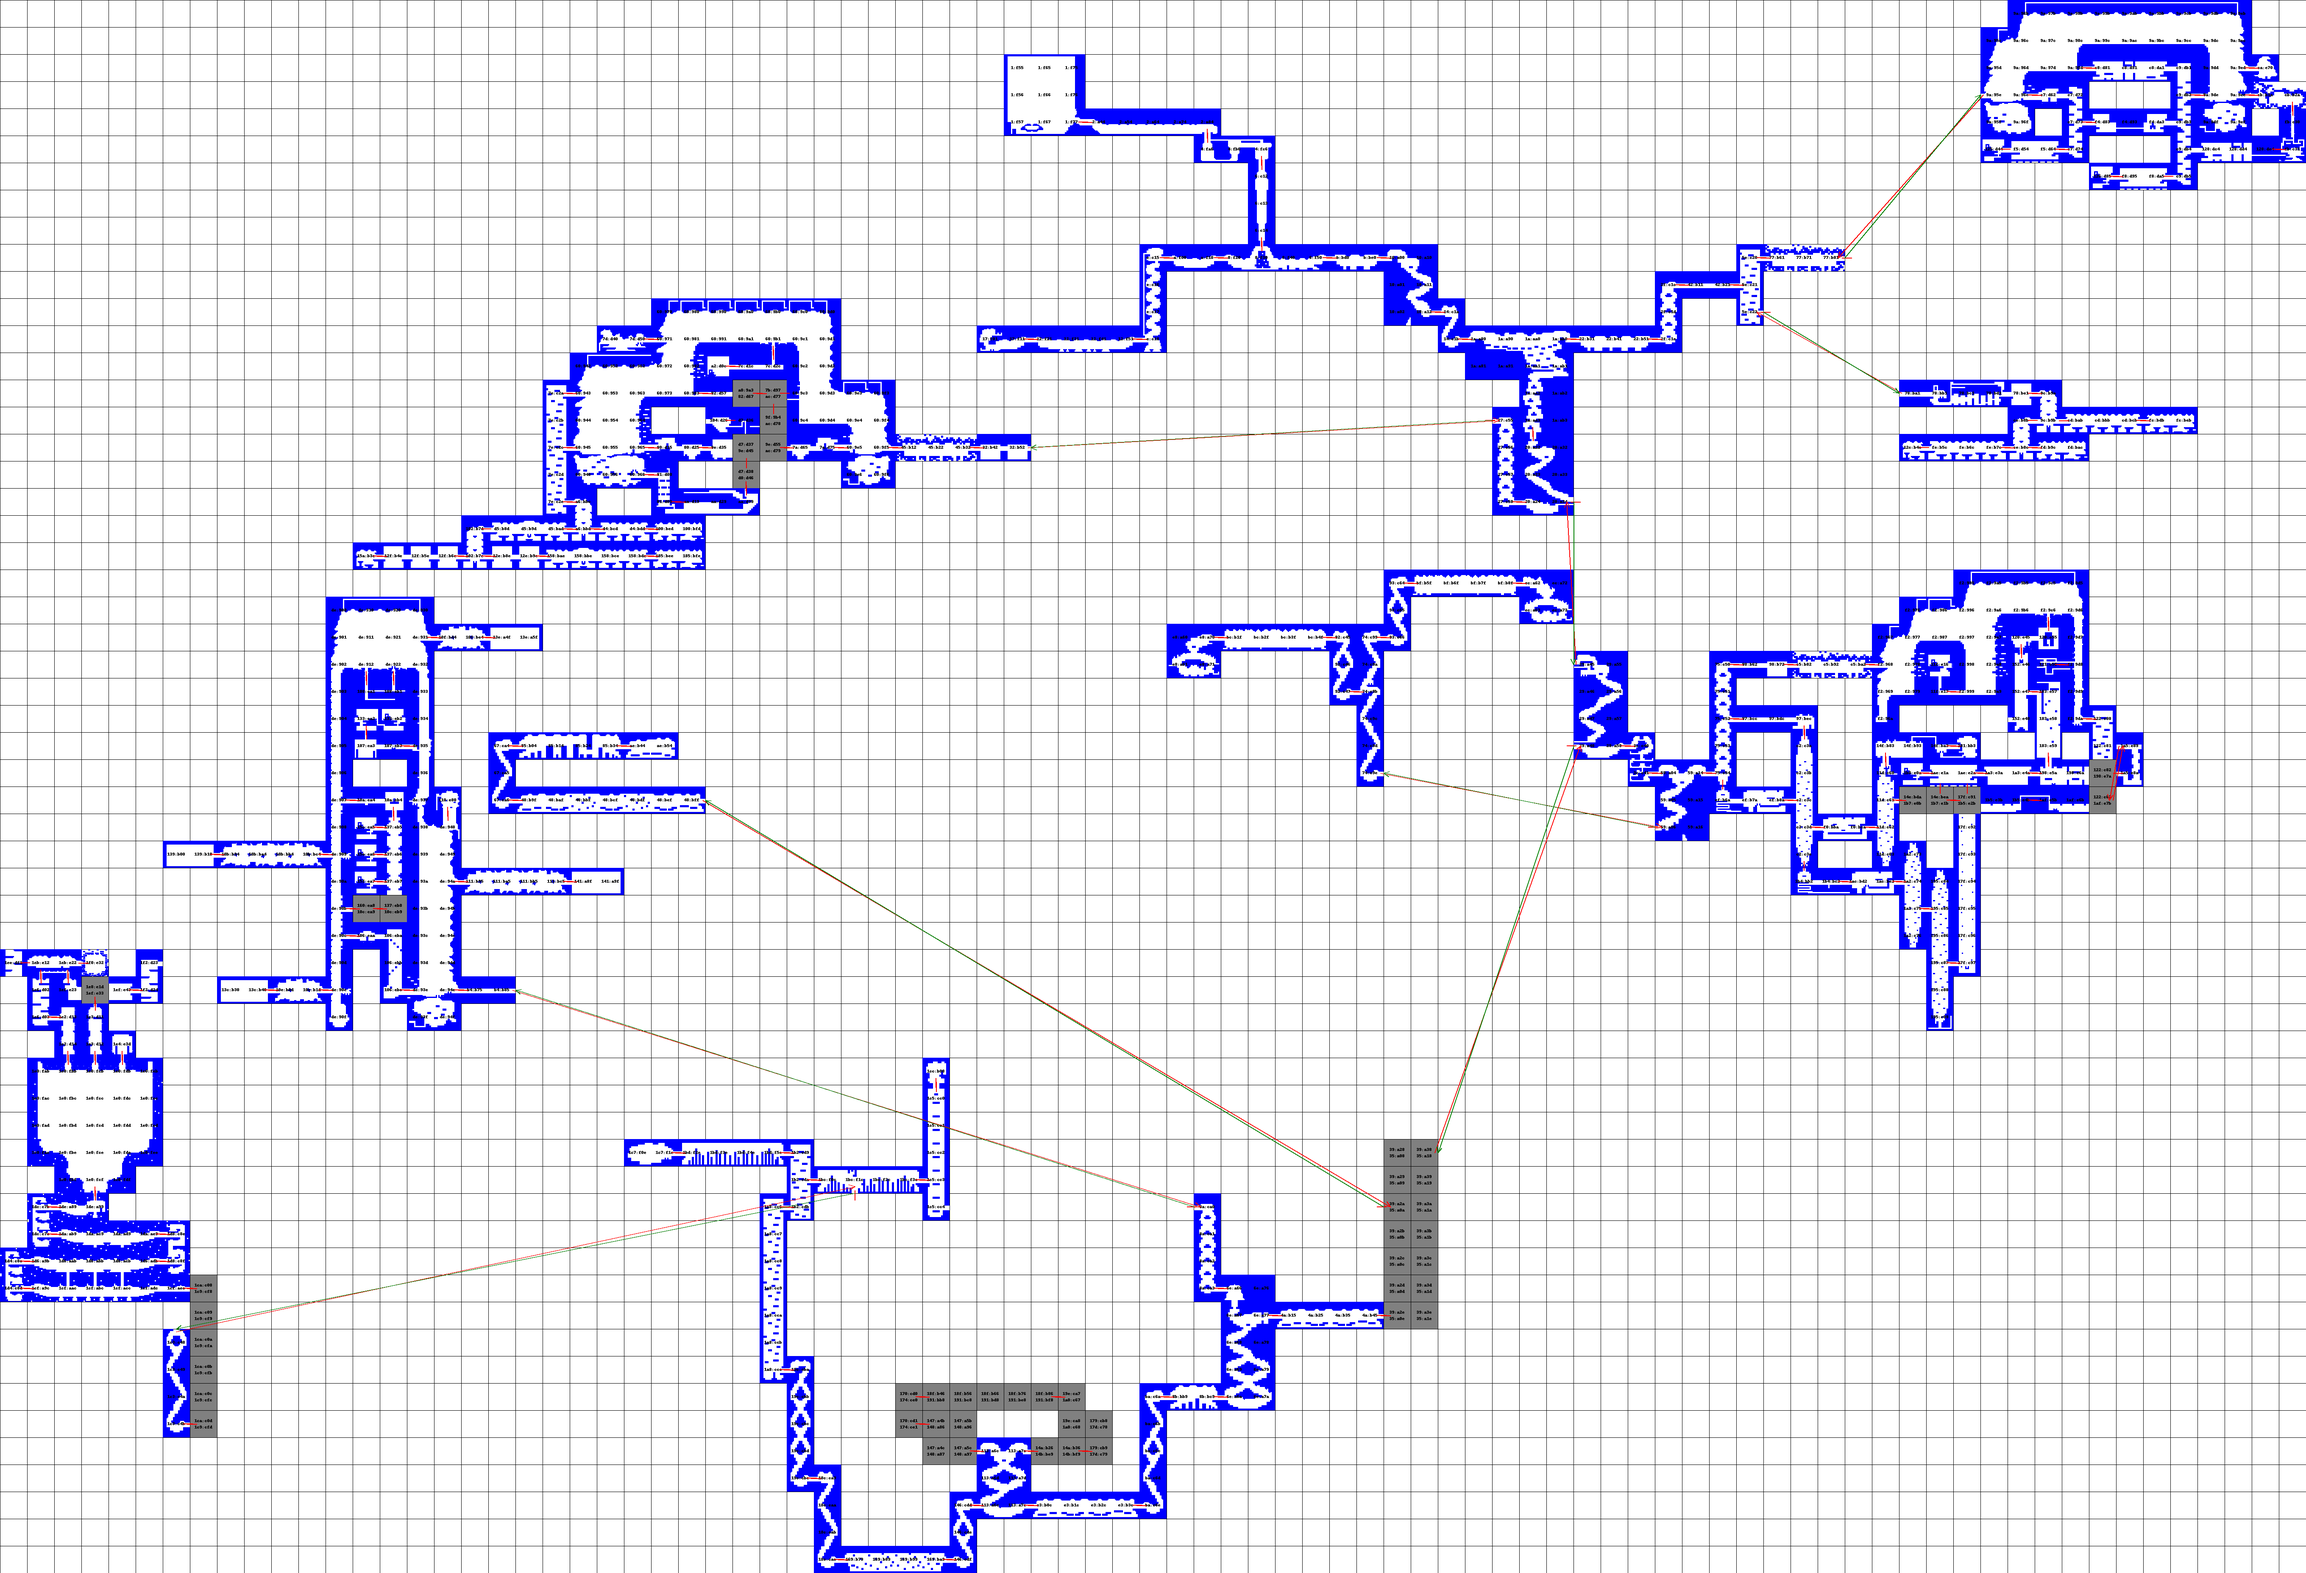
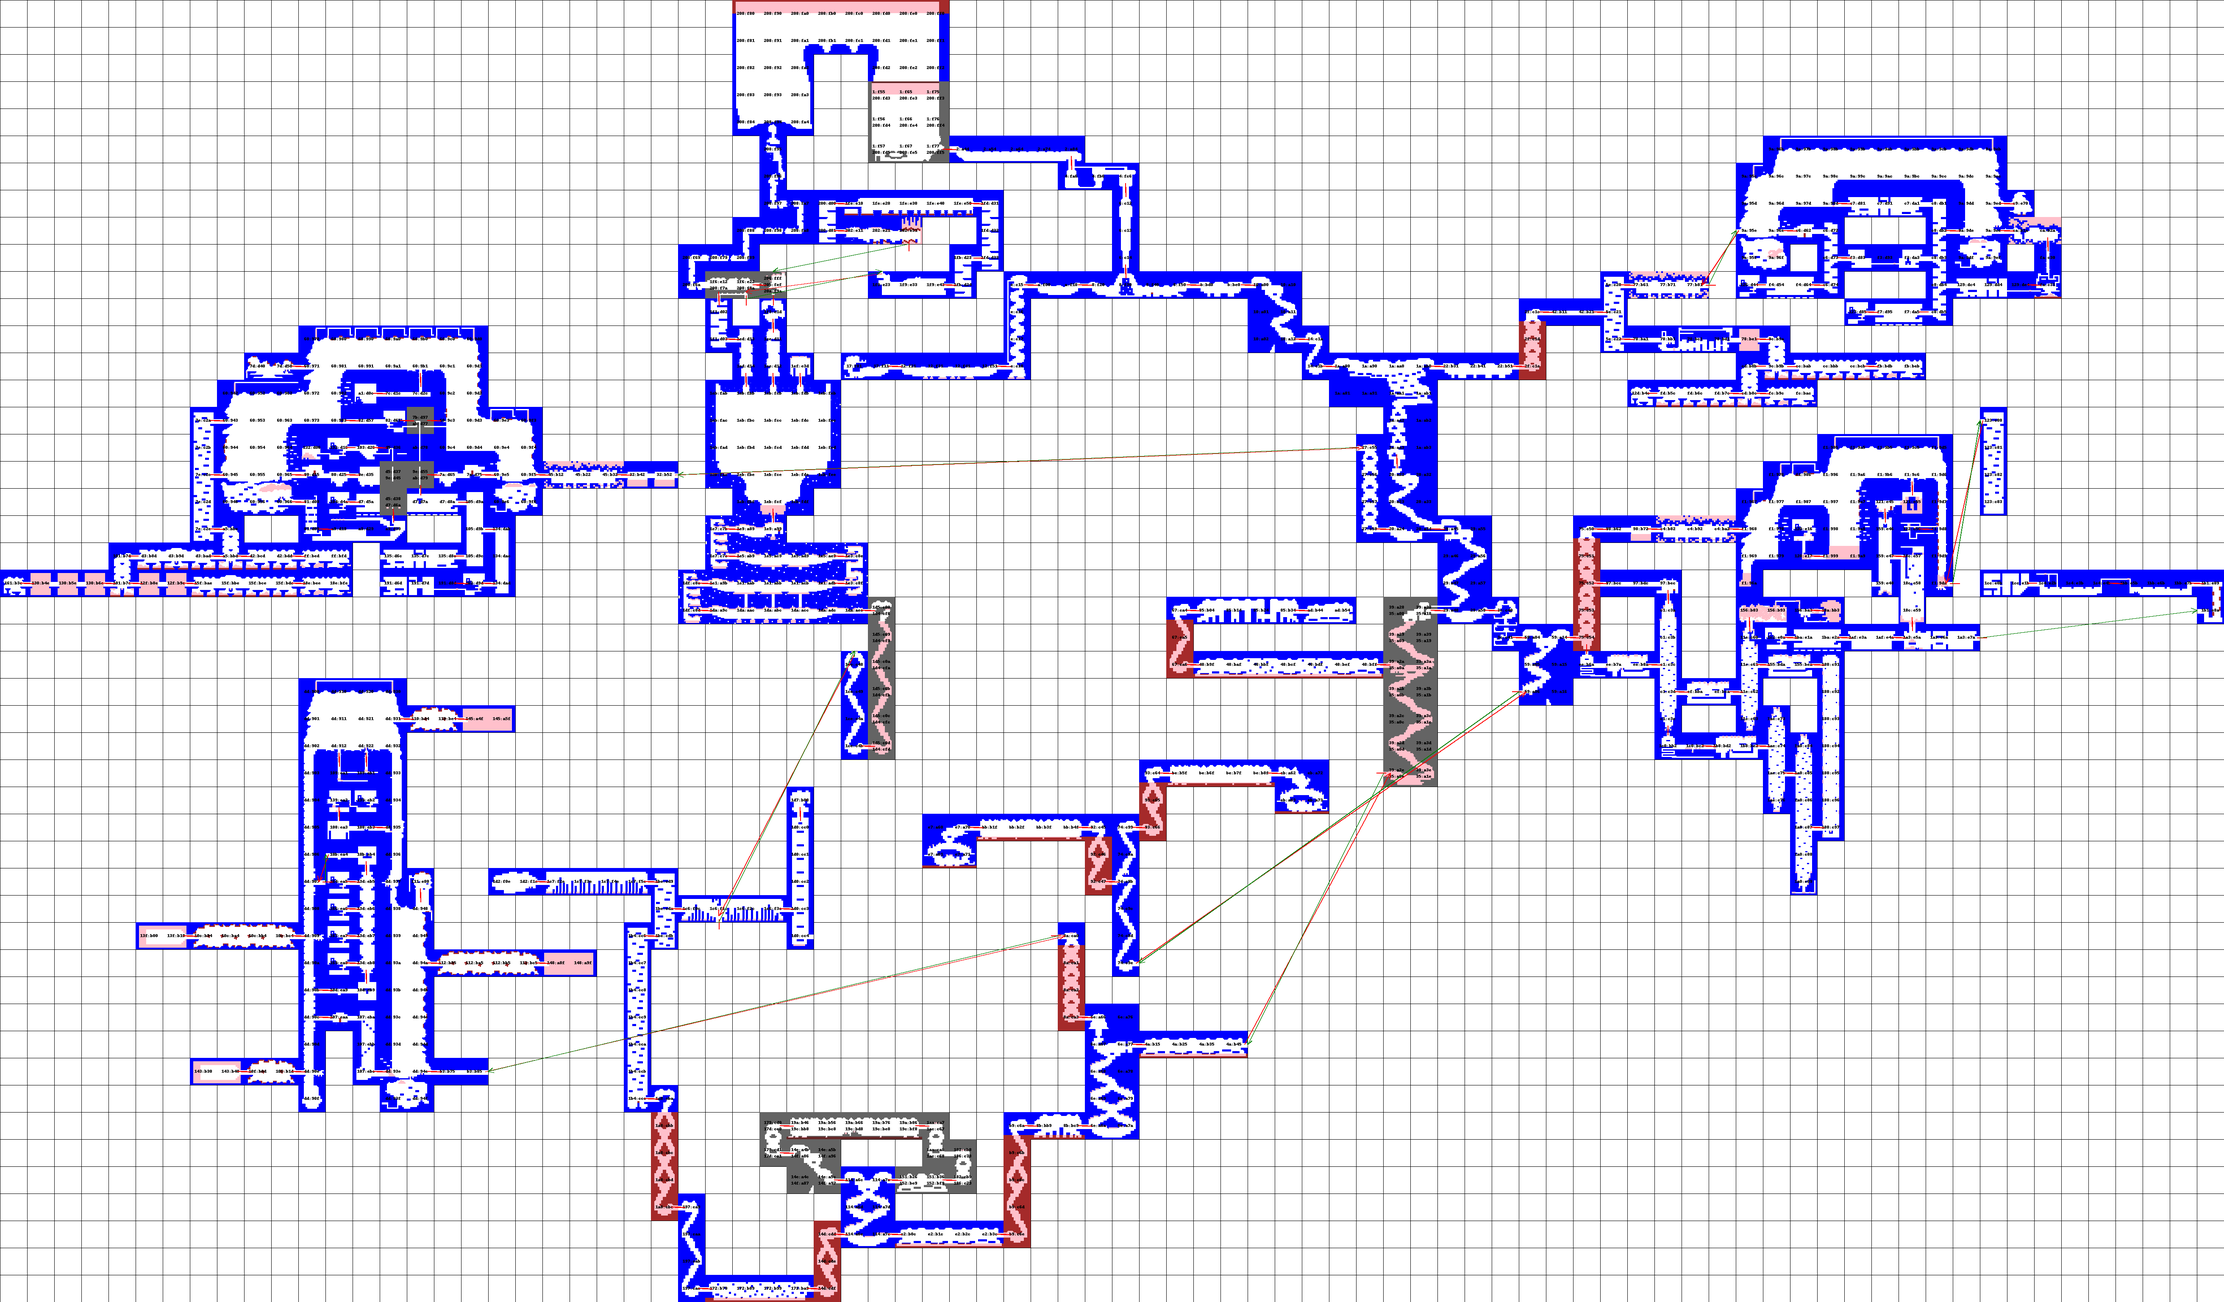
good stuff

diff --git a/extract.py b/extract.py
@@ -11,32 +11,43 @@ BIT_WEST = 2
 BIT_NORTH = 4
 BIT_SOUTH = 8
 
+NO_REPLICATE = -1
+
 def romaddr(bank, ramaddr):
     return 0x4000 * bank + (ramaddr % 0x4000)
 
 # for pushing different regions apart
 special_transitions = {
-    0x80: (-17, 1), # area 3?
-    0x1b3: (0, 6), # caves
+    (0xc55, BIT_WEST): (-25, 1), # area 3?
     
     # area 2?
-    0x5A: (5, -6),
-    0x6F: (5, 3),
+    (0xB81, BIT_EAST): (1, -2),
+    
+    # area 3?
+    #(0xD39, BIT_NORTH): (9, 4),
+    
+    # area 4?
+    (0x9DA, BIT_EAST): (1, -6),
+    (0xE7A, BIT_EAST): (8, -1),
     
     # cave fork
-    0x1A0: (-5, 15),
-    0x33: (-10, -2),
+    #0x1A0: (-5, 5),
+    (0xA06, BIT_WEST): (-14, 10),
     
     # double acid cave
-    0x189: (-25, -15),
-    0x3B: (-25, -15),
+    (0xA2E, BIT_WEST): (-5, 10),
+    (0xA0E, BIT_WEST): (-5, 10),
     
     # "A"
-    0xA6: (-25, -8),
+    (0xCA0, BIT_WEST): (-21, 5),
+    (0x907, BIT_EAST): (0, -1),
     
     # ~"B"
-    0x7A: (-25, 5),
-    #0xD4: (-15, 0),
+    (0xF1C, BIT_SOUTH): (5, -10),
+    
+    # Final area
+    (0xE22, BIT_SOUTH): (5, -1),
+    (0xE31, BIT_SOUTH): (-5, 1),
 }
 
 # no warp, but we count it anyway
@@ -49,6 +60,13 @@ exceptional_null_transitions = {
     0xD54,
     0xDB5,
     0xB4E,
+    0xE2B,
+    0xD26,
+    0xD79,
+    0xD8A,
+    0xD9B,
+    0xD9C,
+    0xD23,
 }
 
 suppress_transition = {
@@ -83,17 +101,38 @@ suppress_transition = {
     0xC8E: BIT_NORTH,
     0xC8F: {BIT_EAST, BIT_SOUTH},
     
-    0xD36: {BIT_EAST},
+    0xD36: {BIT_EAST, NO_REPLICATE},
+    0xD45: {BIT_NORTH, BIT_SOUTH},
     0xD54: {BIT_NORTH, BIT_SOUTH},
     0xD64: {BIT_NORTH, BIT_SOUTH},
+    0xD97: {BIT_WEST, BIT_SOUTH, NO_REPLICATE},
+    0xD77: {BIT_EAST, NO_REPLICATE},
     
-    0xEB8: {BIT_SOUTH, BIT_NORTH},
-    0xEB9: {BIT_SOUTH, BIT_NORTH},
+    0xE1A: {BIT_SOUTH, BIT_NORTH},
+    0xE2A: {BIT_SOUTH, BIT_NORTH},
+    0xE31: {BIT_NORTH, BIT_EAST},
+    
+    # larva room
+    0xE12: {BIT_WEST, NO_REPLICATE},
+    0xE22: {BIT_EAST, NO_REPLICATE},
+    0xF8A: {BIT_SOUTH, NO_REPLICATE},
+    0xF7A: {BIT_SOUTH, NO_REPLICATE},
+    
+    # queen absent
+    0xFFF: {BIT_EAST, BIT_NORTH, BIT_WEST, NO_REPLICATE},
+    
+    # queen fight
+    0xFEF: {BIT_EAST, BIT_NORTH, NO_REPLICATE},
+    
+    # queen endgame
+    0xF9A: {BIT_EAST, BIT_NORTH, BIT_SOUTH, NO_REPLICATE},
 }
 
 # bank,x,y versions of the above
 for t in list(exceptional_null_transitions):
     exceptional_null_transitions.add((t >> 8, (t >> 4) & 0xF, t & 0xF))
+for (t, bit), v in copy.copy(special_transitions).items():
+    special_transitions[((t >> 8, (t >> 4) & 0xF, t & 0xF), bit)] = v
 for t, bit in copy.copy(suppress_transition).items():
     if type(bit) == int:
         bit = {bit}
@@ -255,7 +294,7 @@ class Transition:
                 op.x = yx & 0x0F
                 op.y = yx >> 4
             elif opcode == 0x50:
-                op.type = "queen-escape"
+                op.type = "queen-retreat"
             elif opcode == 0x60:
                 op.type = "damage"
                 op.acid = read_u8()
@@ -269,6 +308,8 @@ class Transition:
                 op.camera_x = read_u16()
                 op.samus_y = read_u16()
                 op.samus_x = read_u16()
+                op.x = op.samus_x >> 8
+                op.y = op.samus_y >> 8
             elif opcode == 0x90:
                 op.type = "if-metroid"
                 op.threshold = read_u8()
@@ -308,6 +349,9 @@ def get_transition_locations_styles(idx, exit_bit, style, warp):
     dx = 0
     dy = 0
     
+    is_queen_retreat = False
+    is_queen_exit = False
+    
     if exit_bit:
         if warp in suppress_transition and exit_bit in suppress_transition[warp]:
             return []
@@ -318,6 +362,12 @@ def get_transition_locations_styles(idx, exit_bit, style, warp):
             out += get_transition_locations_styles(op.transition, exit_bit, style, (warp[0], (warp[1] - dx + 16) % 16, (warp[2] - dy + 16) % 16))
         elif op.type == "warp":
             warp = (op.bank, (op.x + dx + 16) % 16, (op.y + dy + 16) % 16)
+        elif op.type == "queen-enter":
+            warp = (op.bank, op.x, op.y)
+        elif op.type == "queen-retreat":
+            is_queen_retreat = True
+        elif op.type == "queen-exit":
+            is_queen_exit = True
         elif op.type == "bg":
             style[STYLE_IDX_BGROM] = op.src
         elif op.type == "spr":
@@ -330,7 +380,12 @@ def get_transition_locations_styles(idx, exit_bit, style, warp):
             style[STYLE_IDX_MTT] = op.value
     
     if warp:
-        out.append((warp, style))
+        if is_queen_retreat and exit_bit != BIT_SOUTH:
+            pass
+        elif is_queen_exit and exit_bit != BIT_WEST:
+            pass
+        else:
+            out.append((warp, style))
     else:
         print(f"Note: missing warp for transition {idx:3x}")
         
@@ -450,6 +505,7 @@ class Cell:
         samus_threshold, projectile_threshold, enemy_threshold = solthresh
         
         self.collision = [[0 for _ in range(CELL_TILE_SIZE)] for _ in range(CELL_TILE_SIZE)]
+        self.colflags = [[0 for _ in range(CELL_TILE_SIZE)] for _ in range(CELL_TILE_SIZE)]
         
         for y in range(0, CELL_MT_SIZE):
             for x in range(0, CELL_MT_SIZE):
@@ -477,6 +533,8 @@ class Cell:
                             self.collision[y*2 + yi][x*2 + xi] = 0
                         else:
                             self.collision[y*2 + yi][x*2 + xi] = 1
+                            
+                        self.colflags[y*2 + yi][x*2 + xi] |= colt
         
 class Room:
     def __init__(self, idx, bank, style):
@@ -531,7 +589,8 @@ def infer_suppressions():
                     idx = 16*y + x
                     tiles_addr = romaddr(bank, peek_u16(bank, 2*idx))
                     if (bank, x, y) in suppress_transition:
-                        suppress_transition[tiles_addr] = suppress_transition[(bank, x, y)]
+                        if NO_REPLICATE not in suppress_transition[(bank, x, y)]:
+                            suppress_transition[tiles_addr] = suppress_transition[(bank, x, y)]
                     if tiles_addr in suppress_transition:
                         suppress_transition[(bank, x, y)] = suppress_transition[tiles_addr]
 
@@ -650,8 +709,8 @@ def rooms_layout():
                     for tr_loc_style in get_transition_locations_styles(cell.transition, exit_bit, room.style, (cell.bank, cell.x, cell.y)):
                         tr_loc, tr_style = tr_loc_style
                         nbank, nx, ny = tr_loc
-                        if cell.transition in special_transitions:
-                            stdx, stdy = special_transitions[cell.transition]
+                        if ((room.bank, cx, cy), exit_bit) in special_transitions:
+                            stdx, stdy = special_transitions[((room.bank, cx, cy), exit_bit)]
                             jumps.append((True, mapx + 0.5 + dx/2, mapy + 0.5 + dy/2, mapx + 0.5 + stdx + dx/2, mapy + stdy + 0.5 + dy/2))
                         else:
                             stdx, stdy = 0, 0

diff --git a/display.py b/display.py
@@ -55,14 +55,24 @@ def display_grid(grid, jumps, cells=None, output_path="grid_output.png"):
                 draw.rectangle([x1, y1, x2, y2], fill='white', outline='black')
             else:
                 
-                if len(cell_value) == 1 and cells:
-                    ridx, bank, x, y = cell_value[0]
-                    cell = cells[(bank, x, y)]
-                    collision = cell.collision
-                    for j in range(32):
-                        for i in range(32):
-                            if collision[j][i] == 1:
-                                draw.rectangle([x1 + i*tile_size, y1 + j*tile_size, x1 + i*tile_size + tile_size, y1 + j*tile_size + tile_size], fill='blue')
+                if cells:
+                    color = (100, 100, 100) if len(cell_value) >= 2 else 'blue'
+                    altcolor = 'pink'
+                    altcolor2 = (100, 40, 40) if len(cell_value) >= 2 else 'brown'
+                    for celli, v in enumerate(cell_value):
+                        ridx, bank, x, y = v
+                        cell = cells[(bank, x, y)]
+                        collision = cell.collision
+                        colflags = cell.colflags
+                        for j in range(32):
+                            for i in range(32):
+                                rect = [x1 + i*tile_size, y1 + j*tile_size, x1 + i*tile_size + tile_size, y1 + j*tile_size + tile_size]
+                                if collision[j][i] == 1:
+                                    draw.rectangle(rect, fill=color)
+                                    if colflags[j][i] != 0:
+                                        draw.rectangle(rect, fill=altcolor2)
+                                elif colflags[j][i] != 0:
+                                    draw.rectangle(rect, fill=altcolor)
                 else:
                     draw.rectangle([x1, y1, x2, y2], fill='lightblue' if len(cell_value) <= 1 else 'gray', outline='black')
                 
@@ -103,6 +113,6 @@ def display_grid(grid, jumps, cells=None, output_path="grid_output.png"):
                     draw_arrow(draw, [(start_x, start_y), (end_x, end_y)], fill=color, width=2)
     
     img.save(output_path)
-    img.show()
+    #img.show()
     
     return img
